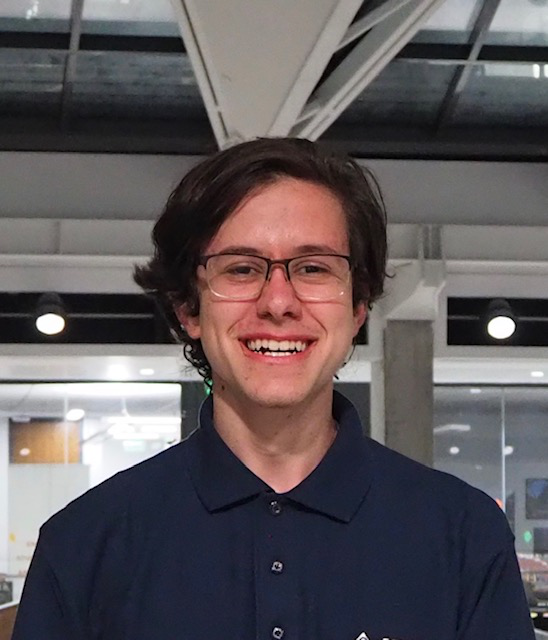
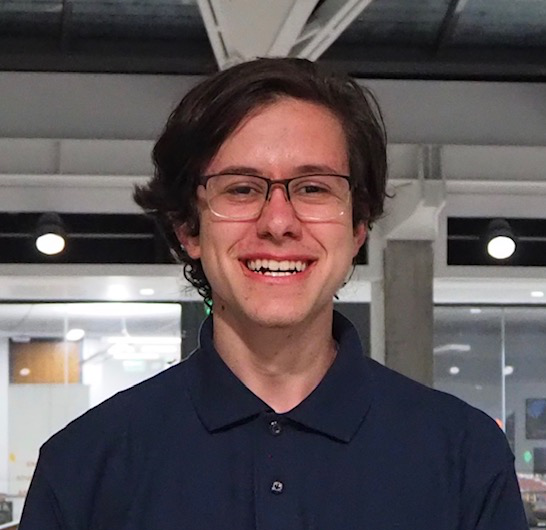
small fix

diff --git a/css/style.css b/css/style.css
@@ -68,7 +68,7 @@ h2 code {
 }
 
 #profile_picture  {
-    width: 20%;
+    /* width: 20%; */
     height: auto;
     margin-top: 1%;
 }
